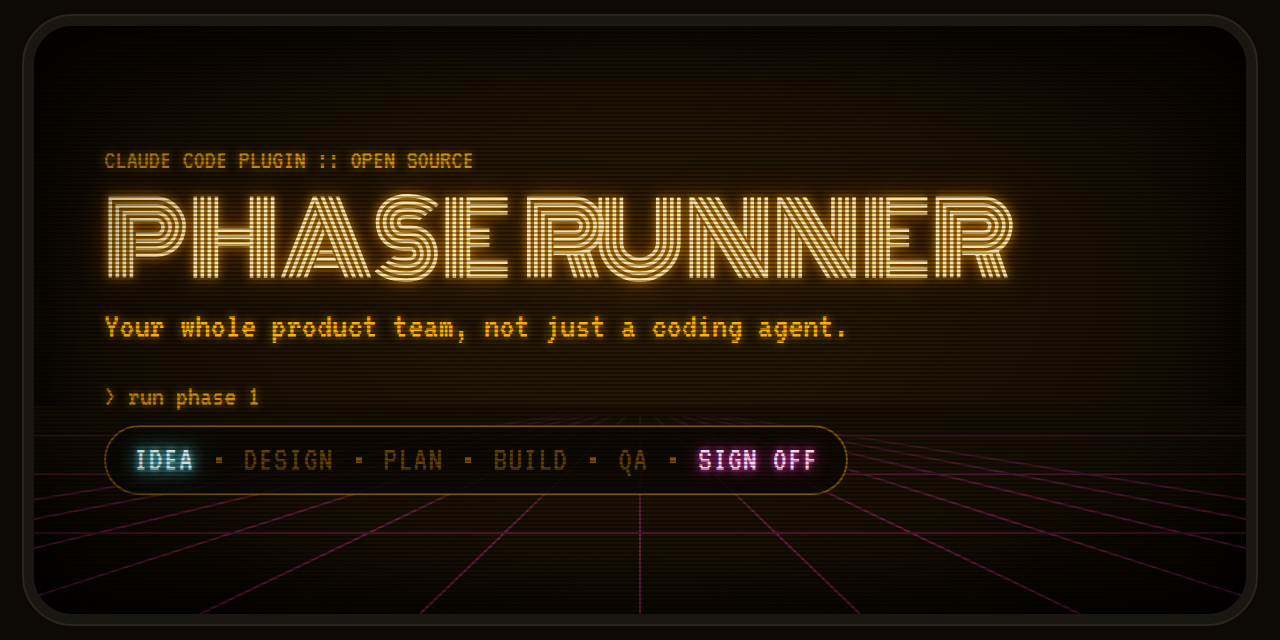
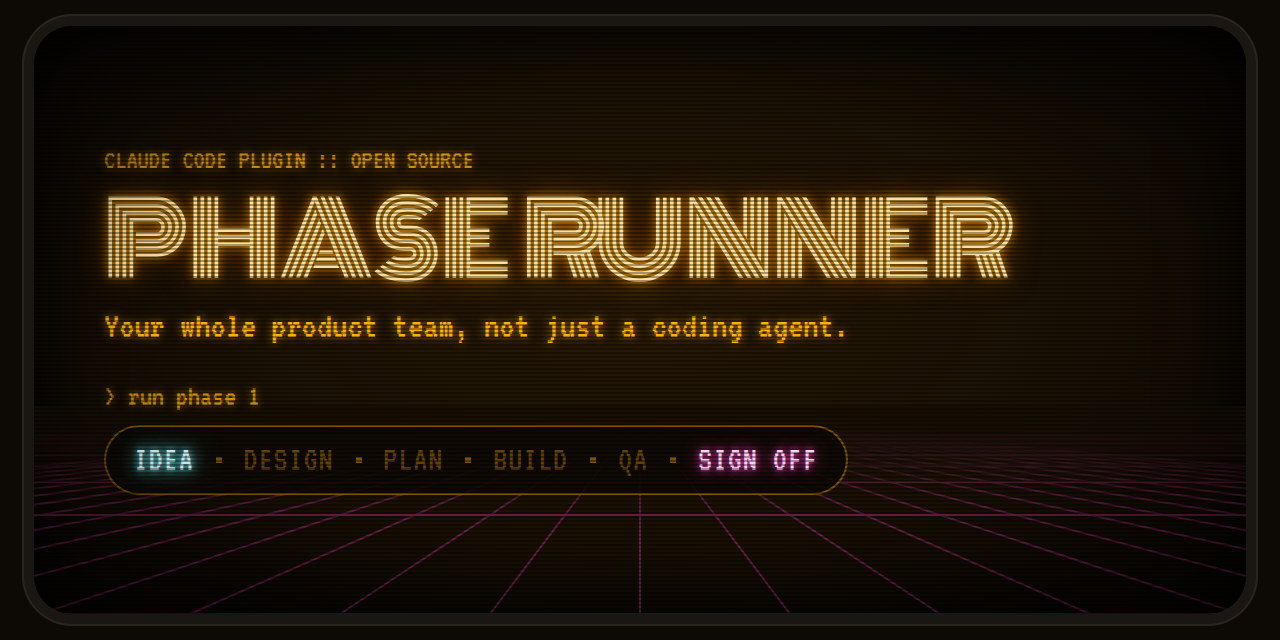
animated grid

diff --git a/README.md b/README.md
@@ -1,5 +1,5 @@
 <p align="center">
-  <img src="docs/social-preview.gif" alt="Phase Runner: your whole product team, not just a coding agent. The stages Idea, Design, Plan, Build and QA light up in turn, then Sign off turns green." width="100%">
+  <img src="docs/social-preview-grid.gif" alt="Phase Runner: your whole product team, not just a coding agent. The stages Idea, Design, Plan, Build and QA light up in turn, then Sign off turns green." width="100%">
 </p>
 
 # Phase Runner
